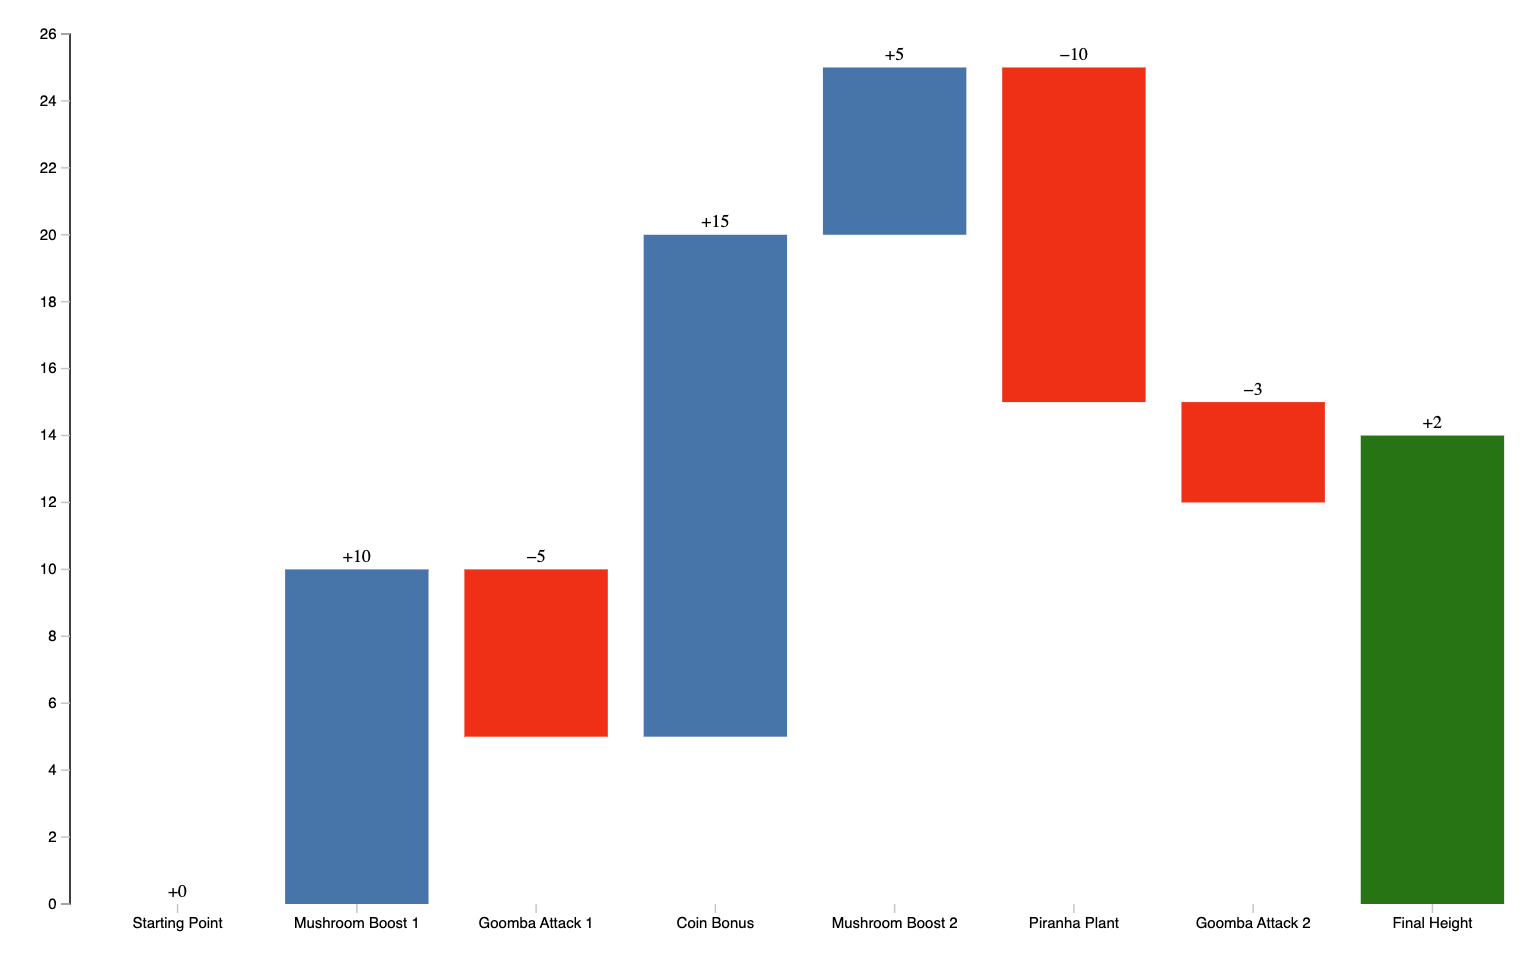
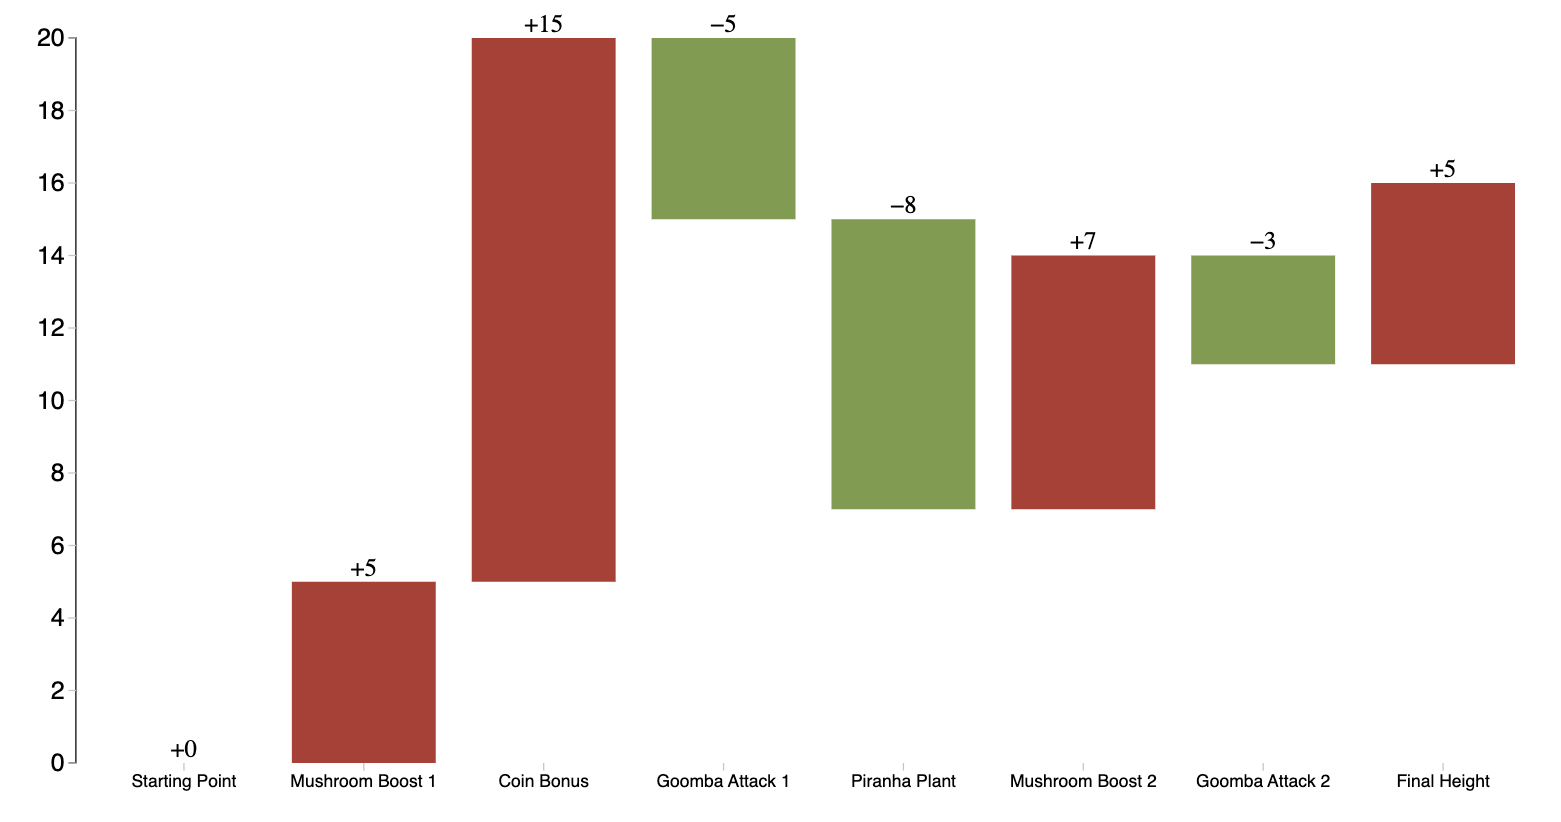
added waterfall

diff --git a/dist/bundle.js b/dist/bundle.js
@@ -10,13 +10,13 @@
 /******/ 	"use strict";
 /******/ 	var __webpack_modules__ = ({
 
-/***/ "./sunburst/main.ts":
-/*!**************************!*\
-  !*** ./sunburst/main.ts ***!
-  \**************************/
+/***/ "./waterfall/main.ts":
+/*!***************************!*\
+  !*** ./waterfall/main.ts ***!
+  \***************************/
 /***/ (function(__unused_webpack_module, exports, __webpack_require__) {
 
-eval("\nvar __createBinding = (this && this.__createBinding) || (Object.create ? (function(o, m, k, k2) {\n    if (k2 === undefined) k2 = k;\n    var desc = Object.getOwnPropertyDescriptor(m, k);\n    if (!desc || (\"get\" in desc ? !m.__esModule : desc.writable || desc.configurable)) {\n      desc = { enumerable: true, get: function() { return m[k]; } };\n    }\n    Object.defineProperty(o, k2, desc);\n}) : (function(o, m, k, k2) {\n    if (k2 === undefined) k2 = k;\n    o[k2] = m[k];\n}));\nvar __setModuleDefault = (this && this.__setModuleDefault) || (Object.create ? (function(o, v) {\n    Object.defineProperty(o, \"default\", { enumerable: true, value: v });\n}) : function(o, v) {\n    o[\"default\"] = v;\n});\nvar __importStar = (this && this.__importStar) || function (mod) {\n    if (mod && mod.__esModule) return mod;\n    var result = {};\n    if (mod != null) for (var k in mod) if (k !== \"default\" && Object.prototype.hasOwnProperty.call(mod, k)) __createBinding(result, mod, k);\n    __setModuleDefault(result, mod);\n    return result;\n};\nvar __importDefault = (this && this.__importDefault) || function (mod) {\n    return (mod && mod.__esModule) ? mod : { \"default\": mod };\n};\nObject.defineProperty(exports, \"__esModule\", ({ value: true }));\nconst d3 = __importStar(__webpack_require__(/*! d3 */ \"./node_modules/d3/src/index.js\"));\nconst phase2_json_1 = __importDefault(__webpack_require__(/*! ./phase2.json */ \"./sunburst/phase2.json\"));\n// Cast the imported data to the NodeData interface\nconst data = phase2_json_1.default;\n// Set dimensions and radius\nconst width = 1160;\nconst height = 700;\nconst radius = Math.min(width, height) / 2 - 10;\nconst format = d3.format(\",d\");\n// Append an SVG element to the #sunburst div\nconst svg = d3.select(\"#sunburst\")\n    .append(\"svg\")\n    .attr(\"viewBox\", `0 0 ${width} ${height}`)\n    .style(\"font\", \"10px sans-serif\")\n    .append(\"g\")\n    .attr(\"transform\", `translate(${width / 2},${height / 2})`);\n// Function to filter redundant layers\nfunction removeRedundantChildren(node) {\n    if (node.children) {\n        node.children = node.children.filter(child => child.name !== node.name);\n        node.children.forEach(removeRedundantChildren);\n    }\n}\nremoveRedundantChildren(data); // Remove redundant layers\n// Create the root hierarchy and apply the partition layout\nconst root = d3.partition()\n    .size([2 * Math.PI, radius])(d3.hierarchy(data)\n    .sum(d => d.value || 0)\n    .sort((a, b) => (b.value || 0) - (a.value || 0)));\n// Define a color scale for top-level categories\nconst colorScale = d3.scaleOrdinal()\n    .domain(data.children ? data.children.map(d => d.name) : [])\n    .range(d3.schemeCategory10); // Use a predefined color scheme\nfunction getColor(d) {\n    if (d.depth === 0) {\n        return '#ccc';\n    }\n    if (d.depth === 1) {\n        return colorScale(d.data.name);\n    }\n    // Derive color from parent for deeper nodes\n    const parentColor = getColor(d.parent);\n    const hsl = d3.hsl(parentColor);\n    hsl.s *= 0.8;\n    hsl.l = Math.min(1, hsl.l + 0.1);\n    return hsl.formatHex();\n}\n// Create the arc generator\nconst arc = d3.arc()\n    .startAngle(d => d.x0)\n    .endAngle(d => d.x1)\n    .padAngle(0.005)\n    .padRadius(radius / 3)\n    .innerRadius(d => d.y0)\n    .outerRadius(d => d.y1 - 1);\n// Draw the arcs\nsvg.selectAll('path')\n    .data(root.descendants())\n    .enter().append('path')\n    .attr('display', d => d.depth ? null : \"none\") // Hide the root ring\n    .attr('d', arc)\n    .style('stroke', '#fff')\n    .style('fill', d => getColor(d))\n    .append('title')\n    .text(d => `${d.ancestors().map(d => d.data.name).reverse().join(\" / \")}\\n${format(d.value || 0)}`);\n// Define a threshold to determine small arcs\nconst labelThreshold = 0.1;\n// Separate nodes into those suitable for inside labels and those needing outside labels\nconst labelNodes = root.descendants().filter(d => d.depth && (d.x1 - d.x0) > labelThreshold);\nconst smallLabelNodes = root.descendants().filter(d => d.depth && (d.x1 - d.x0) <= labelThreshold);\n// Add inside labels\nsvg.selectAll('text')\n    .data(labelNodes)\n    .enter().append('text')\n    .attr('transform', function (d) {\n    const angle = (d.x0 + d.x1) / 2;\n    const radius = (d.y0 + d.y1) / 2;\n    const x = Math.cos(angle - Math.PI / 2) * radius;\n    const y = Math.sin(angle - Math.PI / 2) * radius;\n    return `translate(${x},${y})`;\n})\n    .attr('text-anchor', 'middle')\n    .attr('alignment-baseline', 'middle')\n    .text(d => d.data.name)\n    .style('font-size', d => {\n    const textLength = d.data.name.length;\n    const arcLength = (d.x1 - d.x0) * radius;\n    const size = Math.min(14, (arcLength / textLength));\n    return size + 'px';\n})\n    .style('fill', '#000');\n// Add outside labels and leader lines for small arcs\nconst outerLabelsGroup = svg.append('g').attr('class', 'outer-labels');\n// Add the lines (leader lines)\nouterLabelsGroup.selectAll('polyline')\n    .data(smallLabelNodes)\n    .enter().append('polyline')\n    .attr('points', function (d) {\n    const angle = (d.x0 + d.x1) / 2;\n    const outerRadius = d.y1 - 2;\n    const x = Math.cos(angle - Math.PI / 2) * outerRadius;\n    const y = Math.sin(angle - Math.PI / 2) * outerRadius;\n    const labelRadius = radius + 2;\n    const lx = Math.cos(angle - Math.PI / 2) * labelRadius;\n    const ly = Math.sin(angle - Math.PI / 2) * labelRadius;\n    return `${x},${y} ${lx},${ly}`;\n})\n    .style('fill', 'none')\n    .style('stroke', '#000')\n    .style('stroke-width', 1);\n// Add the labels\nouterLabelsGroup.selectAll('text')\n    .data(smallLabelNodes)\n    .enter().append('text')\n    .attr('transform', function (d) {\n    const angle = (d.x0 + d.x1) / 2;\n    const labelRadius = radius + 5;\n    const x = Math.cos(angle - Math.PI / 2) * labelRadius;\n    const y = Math.sin(angle - Math.PI / 2) * labelRadius;\n    return `translate(${x},${y})`;\n})\n    .attr('text-anchor', function (d) {\n    const angle = (d.x0 + d.x1) / 2 * 180 / Math.PI;\n    return angle > 180 ? 'end' : 'start';\n})\n    .attr('alignment-baseline', 'middle')\n    .text(d => d.data.name)\n    .style('font-size', '10px')\n    .style('fill', '#000');\n\n\n//# sourceURL=webpack://analogyvis/./sunburst/main.ts?");
+eval("\nvar __createBinding = (this && this.__createBinding) || (Object.create ? (function(o, m, k, k2) {\n    if (k2 === undefined) k2 = k;\n    var desc = Object.getOwnPropertyDescriptor(m, k);\n    if (!desc || (\"get\" in desc ? !m.__esModule : desc.writable || desc.configurable)) {\n      desc = { enumerable: true, get: function() { return m[k]; } };\n    }\n    Object.defineProperty(o, k2, desc);\n}) : (function(o, m, k, k2) {\n    if (k2 === undefined) k2 = k;\n    o[k2] = m[k];\n}));\nvar __setModuleDefault = (this && this.__setModuleDefault) || (Object.create ? (function(o, v) {\n    Object.defineProperty(o, \"default\", { enumerable: true, value: v });\n}) : function(o, v) {\n    o[\"default\"] = v;\n});\nvar __importStar = (this && this.__importStar) || function (mod) {\n    if (mod && mod.__esModule) return mod;\n    var result = {};\n    if (mod != null) for (var k in mod) if (k !== \"default\" && Object.prototype.hasOwnProperty.call(mod, k)) __createBinding(result, mod, k);\n    __setModuleDefault(result, mod);\n    return result;\n};\nvar __importDefault = (this && this.__importDefault) || function (mod) {\n    return (mod && mod.__esModule) ? mod : { \"default\": mod };\n};\nObject.defineProperty(exports, \"__esModule\", ({ value: true }));\nconst d3 = __importStar(__webpack_require__(/*! d3 */ \"./node_modules/d3/src/index.js\"));\nconst phase2_json_1 = __importDefault(__webpack_require__(/*! ./phase2.json */ \"./waterfall/phase2.json\"));\nconst dataset = phase2_json_1.default;\n// Set up the SVG canvas dimensions\nconst margin = { top: 20, right: 20, bottom: 100, left: 60 };\nconst width = 1260 - margin.left - margin.right;\nconst height = 700 - margin.top - margin.bottom;\nconst svg = d3.select('#waterfall')\n    .append('svg')\n    .attr('width', width + margin.left + margin.right)\n    .attr('height', height + margin.top + margin.bottom)\n    .append('g')\n    .attr('transform', `translate(${margin.left},${margin.top})`);\n// Compute the startValue and endValue for each bar\ndataset.forEach((d, i) => {\n    if (i === 0) {\n        d.startValue = 0;\n        d.endValue = d.CumulativeRevenue;\n    }\n    else {\n        d.startValue = dataset[i - 1].CumulativeRevenue;\n        d.endValue = d.CumulativeRevenue;\n    }\n    d.Effect = +d.Effect;\n    d.CumulativeRevenue = +d.CumulativeRevenue;\n});\n// Set up scales\nconst xScale = d3.scaleBand()\n    .domain(dataset.map(d => d.Event))\n    .range([0, width])\n    .padding(0.2);\nconst yScale = d3.scaleLinear()\n    .domain([0, d3.max(dataset, d => d.endValue)])\n    .nice()\n    .range([height, 0]);\n// Draw the bars\nsvg.selectAll('.bar')\n    .data(dataset)\n    .enter()\n    .append('rect')\n    .attr('class', (d, i) => {\n    if (i === 0 || i === dataset.length - 1) {\n        return 'bar start-end';\n    }\n    return d.Effect >= 0 ? 'bar increase' : 'bar decrease';\n})\n    .attr('x', d => xScale(d.Event))\n    .attr('y', d => yScale(Math.max(d.startValue, d.endValue)))\n    .attr('height', d => Math.abs(yScale(d.startValue) - yScale(d.endValue)))\n    .attr('width', xScale.bandwidth());\n// Add the X Axis\nsvg.append('g')\n    .attr('class', 'x axis')\n    .attr('transform', `translate(0,${height})`)\n    .call(d3.axisBottom(xScale))\n    .selectAll('text') // Select all x-axis labels\n    .style('font-size', '14px'); // Set font size\n// Add the Y Axis\nsvg.append('g')\n    .attr('class', 'y axis')\n    .call(d3.axisLeft(yScale))\n    .selectAll('text') // Select all y-axis labels\n    .style('font-size', '20px'); // Set font size\n// Add labels on top of bars (Effects)\nsvg.selectAll('.label')\n    .data(dataset)\n    .enter()\n    .append('text')\n    .attr('class', 'label')\n    .attr('x', d => xScale(d.Event) + xScale.bandwidth() / 2)\n    .attr('y', d => yScale(Math.max(d.startValue, d.endValue)) - 5)\n    .attr('text-anchor', 'middle')\n    .text(d => (d.Effect >= 0 ? '+' : '') + d3.format(\",\")(d.Effect))\n    .style('font-size', '20px');\n// Add labels for cumulative totals\n// svg.selectAll('.total')\n//   .data(dataset)\n//   .enter()\n//   .append('text')\n//   .attr('class', 'total')\n//   .attr('x', d => xScale(d.Event)! + xScale.bandwidth() / 2)\n//   .attr('y', d => yScale(d.endValue!) - 15)\n//   .attr('text-anchor', 'middle')\n//   .text(d => d3.format(\",\")(d.endValue!));\n\n\n//# sourceURL=webpack://analogyvis/./waterfall/main.ts?");
 
 /***/ }),
 
@@ -5680,13 +5680,13 @@ eval("__webpack_require__.r(__webpack_exports__);\n/* harmony export */ __webpac
 
 /***/ }),
 
-/***/ "./sunburst/phase2.json":
-/*!******************************!*\
-  !*** ./sunburst/phase2.json ***!
-  \******************************/
+/***/ "./waterfall/phase2.json":
+/*!*******************************!*\
+  !*** ./waterfall/phase2.json ***!
+  \*******************************/
 /***/ ((module) => {
 
-eval("module.exports = /*#__PURE__*/JSON.parse('{\"name\":\"\",\"children\":[{\"name\":\"Science\",\"children\":[{\"name\":\"Biological Sci\",\"children\":[{\"name\":\"Medical Sci\",\"value\":130},{\"name\":\"Life Sci\",\"value\":115}]},{\"name\":\"Physical Sci\",\"children\":[{\"name\":\"Physics\",\"value\":90},{\"name\":\"Chemistry\",\"value\":110},{\"name\":\"Earth Sci\",\"value\":100}]},{\"name\":\"Math & CS\",\"children\":[{\"name\":\"Mathematics\",\"value\":100},{\"name\":\"Computer Sci\",\"value\":100},{\"name\":\"Statistics\",\"value\":140}]}]},{\"name\":\"Business\",\"children\":[{\"name\":\"Administration\",\"children\":[{\"name\":\"Management\",\"value\":90},{\"name\":\"Marketing\",\"value\":60}]},{\"name\":\"Finance & Accounting\",\"children\":[{\"name\":\"Finance\",\"value\":95},{\"name\":\"Accounting\",\"value\":65}]},{\"name\":\"Commerce\",\"value\":70}]},{\"name\":\"Arts\",\"children\":[{\"name\":\"Fine Arts\",\"children\":[{\"name\":\"Painting\",\"value\":35},{\"name\":\"Sculpture\",\"value\":60}]},{\"name\":\"Performing\",\"children\":[{\"name\":\"Theater\",\"value\":50},{\"name\":\"Dance\",\"value\":35},{\"name\":\"Music\",\"value\":30}]},{\"name\":\"Literature\",\"value\":60}]}]}');\n\n//# sourceURL=webpack://analogyvis/./sunburst/phase2.json?");
+eval("module.exports = /*#__PURE__*/JSON.parse('[{\"Event\":\"Starting Point\",\"Effect\":0,\"CumulativeRevenue\":0},{\"Event\":\"Mushroom Boost 1\",\"Effect\":5,\"CumulativeRevenue\":5},{\"Event\":\"Coin Bonus\",\"Effect\":15,\"CumulativeRevenue\":20},{\"Event\":\"Goomba Attack 1\",\"Effect\":-5,\"CumulativeRevenue\":15},{\"Event\":\"Piranha Plant\",\"Effect\":-8,\"CumulativeRevenue\":7},{\"Event\":\"Mushroom Boost 2\",\"Effect\":7,\"CumulativeRevenue\":14},{\"Event\":\"Goomba Attack 2\",\"Effect\":-3,\"CumulativeRevenue\":11},{\"Event\":\"Final Height\",\"Effect\":5,\"CumulativeRevenue\":16},{\"Event\":\"Penalty\",\"Effect\":0,\"CumulativeRevenue\":16},{\"Event\":\"Bonus\",\"Effect\":0,\"CumulativeRevenue\":16}]');\n\n//# sourceURL=webpack://analogyvis/./waterfall/phase2.json?");
 
 /***/ })
 
@@ -5750,7 +5750,7 @@ eval("module.exports = /*#__PURE__*/JSON.parse('{\"name\":\"\",\"children\":[{\"
 /******/ 	// startup
 /******/ 	// Load entry module and return exports
 /******/ 	// This entry module is referenced by other modules so it can't be inlined
-/******/ 	var __webpack_exports__ = __webpack_require__("./sunburst/main.ts");
+/******/ 	var __webpack_exports__ = __webpack_require__("./waterfall/main.ts");
 /******/ 	
 /******/ })()
 ;

diff --git a/waterfall/index.html b/waterfall/index.html
@@ -6,7 +6,6 @@
   <style>
     body {
       margin: 1rem;
-      background-color: #e2d2b8;
     }
     #waterfall {
       width: 1160px;
